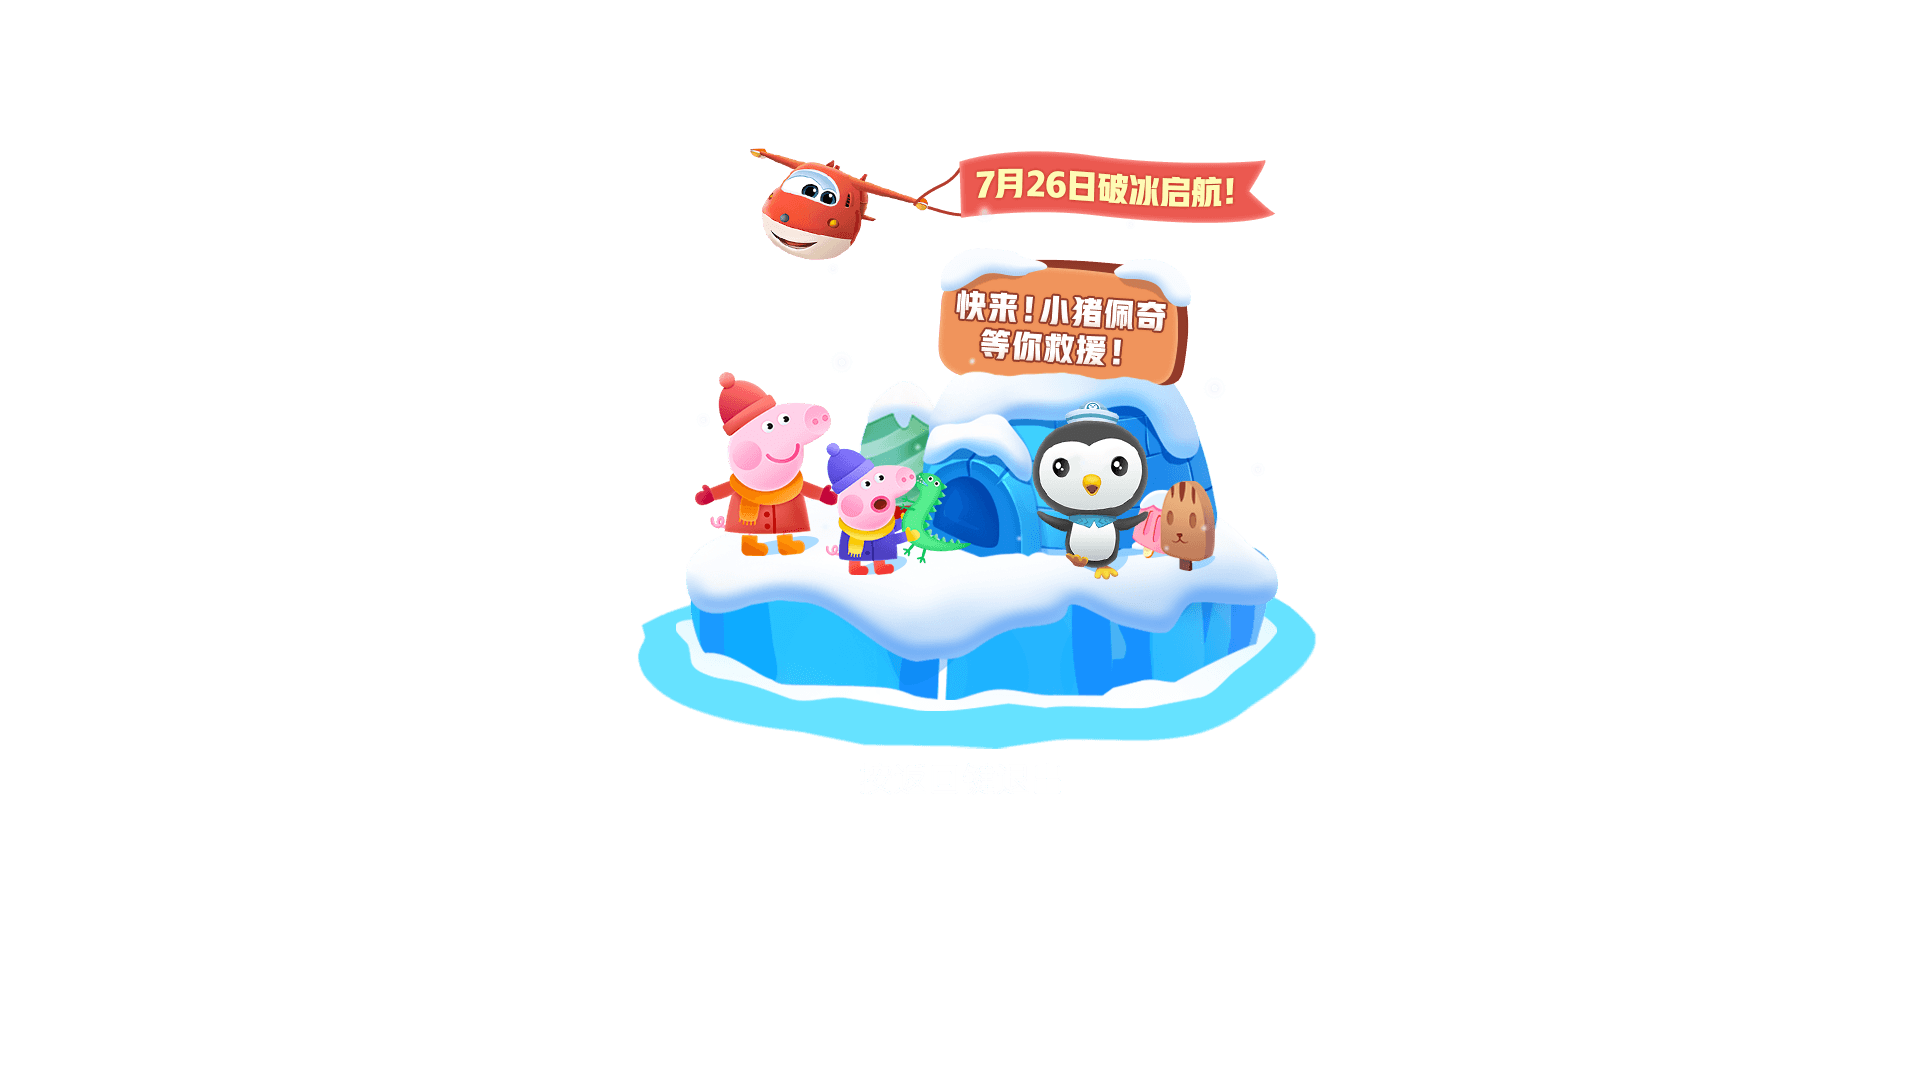
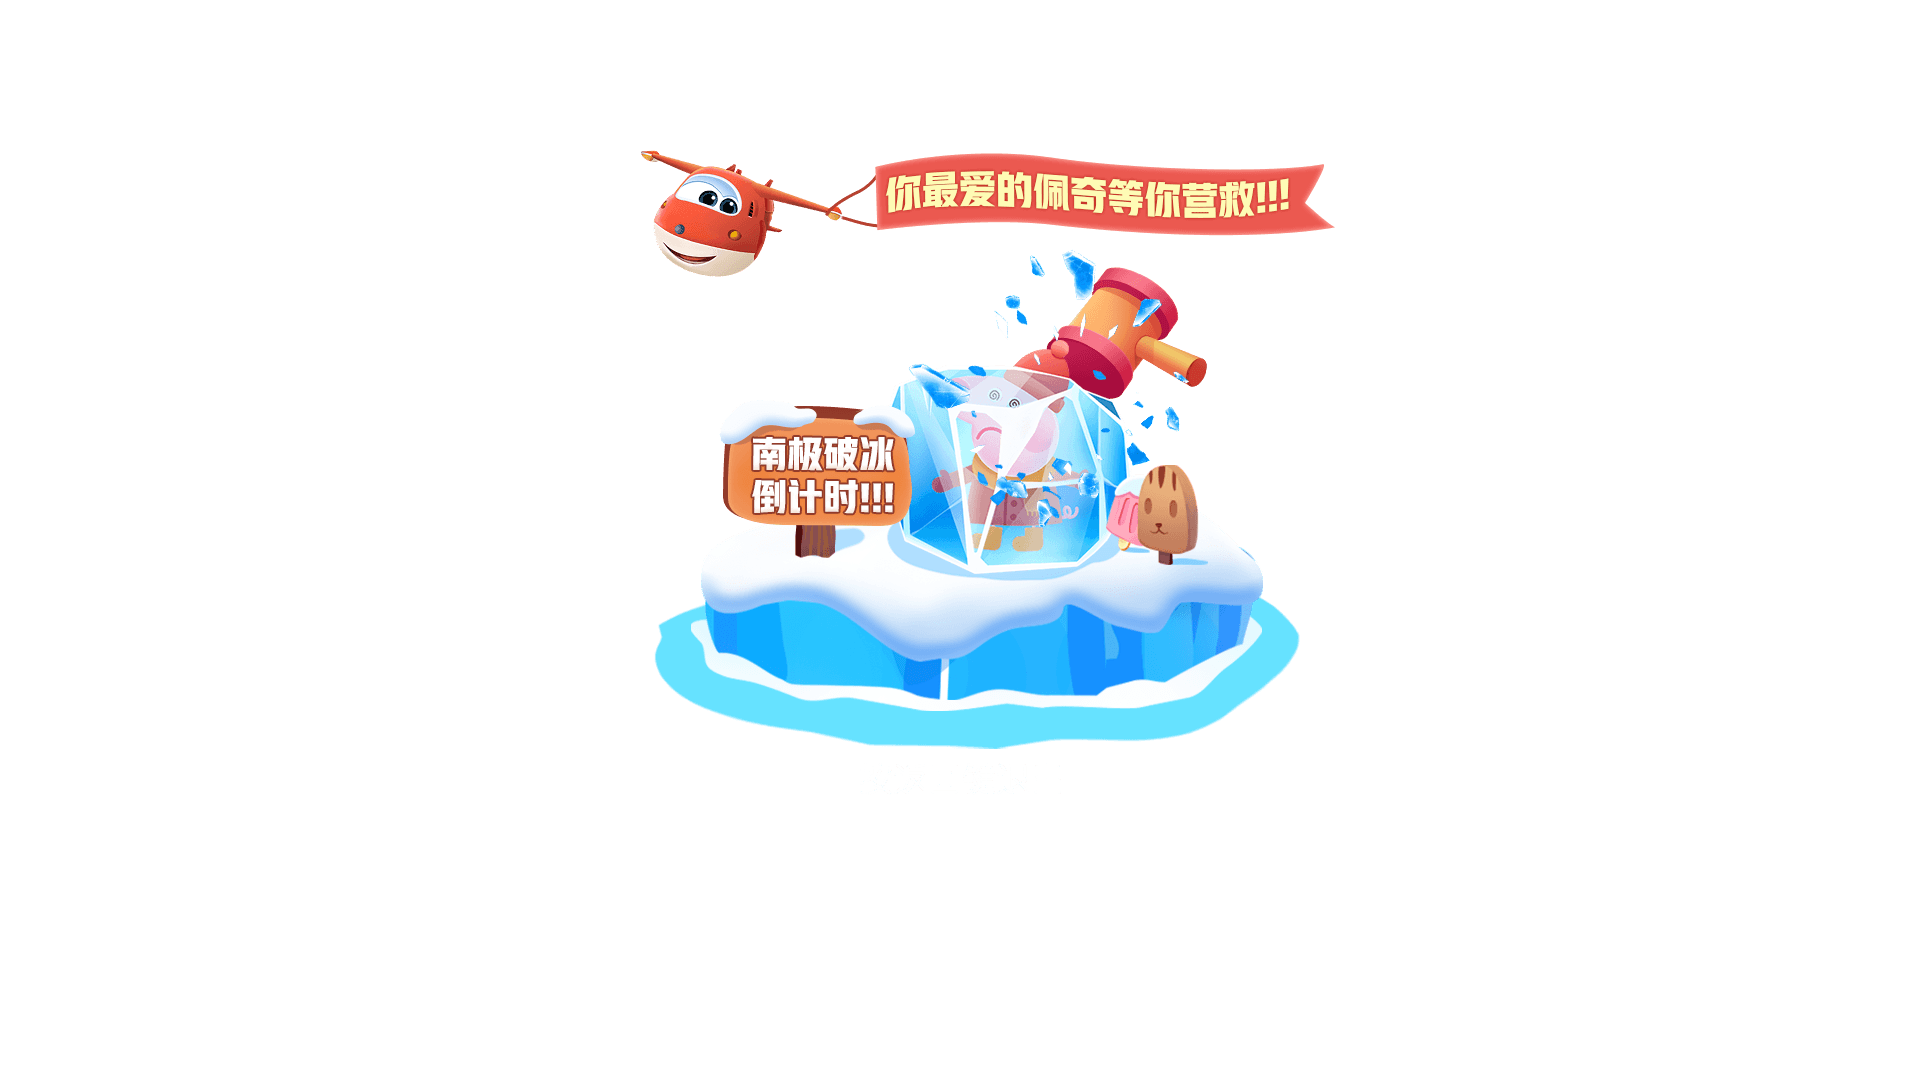
更换弹窗为倒计时弹窗

Changed region(s): [[0.3438, 0.1222, 0.6875, 0.6722], [0.3125, 0.5194, 0.4375, 0.6722], [0.4688, 0.6111, 0.5, 0.6417]]

diff --git a/popup2.html b/popup2.html
@@ -367,8 +367,8 @@
 				console.log("keycode = " + event.keyCode);
 				if(event.keyCode == 13 || event.keyCode == 39)	{	// 确定键,右键
 					autoFillLogData4();
-					logdata4.button_name = "点击进入";
-					logdata2.OPEN_ID = _openId;
+					logdata4.button_name = "点击参与";
+					logdata4.OPEN_ID = _openId;
 					webDataLog("web_button_clicked_new", logdata4);
 					
 					window.location.href = thisBaseUrl + "index.html";
@@ -379,7 +379,7 @@
 			});
 			
 			function autoFillLogData2 (){
-				logdata2.page_name = "弹窗页面";
+				logdata2.page_name = "倒计时弹窗页面";
 				logdata2.page_type = "eduWindow";
 				logdata2.parent_page = "活动主页面";
 				logdata2.award_type = "";
@@ -392,7 +392,7 @@
 			}
 			
 			function autoFillLogData4() {
-				logdata4.page_name = "弹窗页面";
+				logdata4.page_name = "倒计时弹窗页面";
 				logdata4.button_name = "";
 				logdata4.parent_page = "活动主页面";
 				logdata4.award_type = "";

diff --git a/js/index.js b/js/index.js
@@ -1703,7 +1703,8 @@ function pressGetMoreHammerButton() {
 		$("#myawardPage").css("display","none");
 	}
 	
-	showTasksPage();
+	//showTasksPage();
+	gotoBuyPackage();
 	
 	autoFillLogData3();
 	logdata3.button_name = "获得更多锤子";
